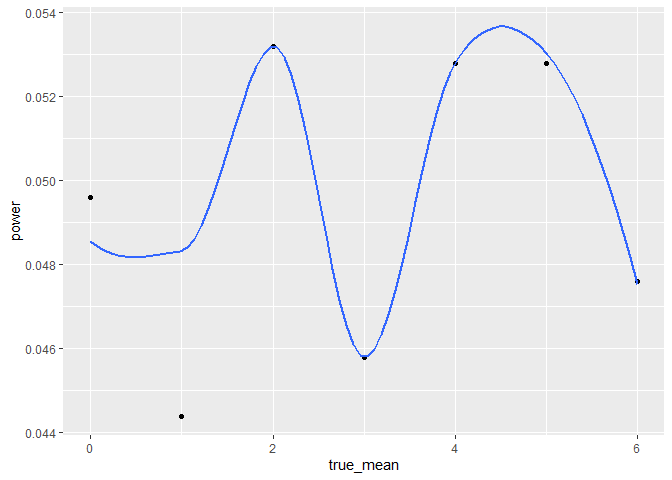
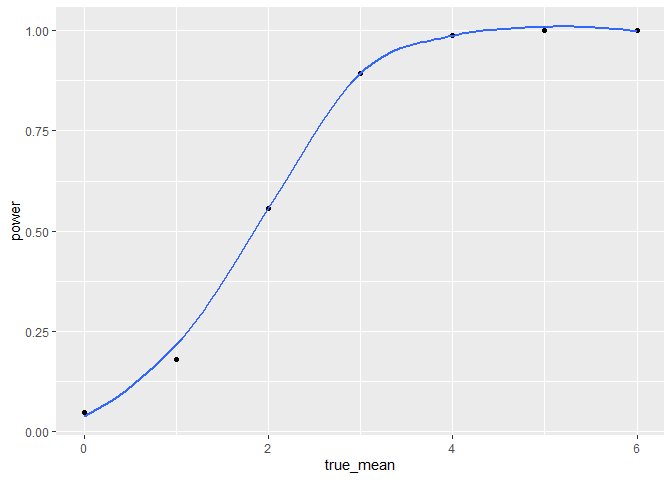
Finishing up the homework

diff --git a/hw5_p8105.md b/hw5_p8105.md
@@ -17,10 +17,10 @@ hw5_p8105
 #a = rnorm(30, mean = 0, sd = 5)
 #include a in the function so it become repeated sampling, the function use t.test directly
 
-ttest = function(n, mean, sd) {
+ttest = function(n = 30, mean, sd = 5) {
   df1 = tibble(
-    x = rnorm(n = 30, mean, sd = 5))
-  ttest_result = t.test(df1)
+    x = rnorm(n = n, mean, sd = sd))
+  ttest_result = t.test(x ~1, df1)
   broom::tidy(ttest_result)
 }
 
@@ -33,8 +33,24 @@ for (i in 1:5000) {
 }
 
 #tidy dataframe result
-result0 = bind_rows(mean_0)
+result0 = bind_rows(mean_0) %>% 
+  print()
 ```
+
+    ## # A tibble: 5,000 × 8
+    ##    estimate statistic p.value parameter conf.low conf.high method    alternative
+    ##       <dbl>     <dbl>   <dbl>     <dbl>    <dbl>     <dbl> <chr>     <chr>      
+    ##  1    0.412     0.489  0.629         29   -1.31     2.14   One Samp… two.sided  
+    ##  2    0.664     0.914  0.368         29   -0.821    2.15   One Samp… two.sided  
+    ##  3    0.551     0.629  0.534         29   -1.24     2.34   One Samp… two.sided  
+    ##  4    0.567     0.704  0.487         29   -1.08     2.21   One Samp… two.sided  
+    ##  5   -1.65     -1.96   0.0599        29   -3.37     0.0731 One Samp… two.sided  
+    ##  6    1.19      1.23   0.229         29   -0.786    3.16   One Samp… two.sided  
+    ##  7    0.334     0.337  0.738         29   -1.69     2.36   One Samp… two.sided  
+    ##  8   -1.19     -1.29   0.209         29   -3.08     0.703  One Samp… two.sided  
+    ##  9    0.122     0.144  0.887         29   -1.62     1.86   One Samp… two.sided  
+    ## 10    0.684     0.728  0.472         29   -1.24     2.60   One Samp… two.sided  
+    ## # ℹ 4,990 more rows
 
 **2B. Loop for mean 1-6**
 
@@ -46,9 +62,26 @@ mean_res =
     true_mean = c(0, 1, 2, 3, 4, 5, 6),
     iter = 1:5000
   ) %>% 
-  mutate(ttest_result = map(true_mean, ~ttest(mean = true_mean))) %>% 
-  unnest(ttest_result)
+  mutate(ttest_result = map(true_mean, ~ttest(mean = .x))) %>% 
+  unnest(ttest_result) %>% 
+  print()
 ```
+
+    ## # A tibble: 35,000 × 10
+    ##    true_mean  iter estimate statistic p.value parameter conf.low conf.high
+    ##        <dbl> <int>    <dbl>     <dbl>   <dbl>     <dbl>    <dbl>     <dbl>
+    ##  1         0     1    0.520     0.607   0.549        29   -1.23      2.27 
+    ##  2         0     2    1.11      1.35    0.188        29   -0.574     2.80 
+    ##  3         0     3    1.01      1.25    0.220        29   -0.635     2.65 
+    ##  4         0     4   -0.835    -1.04    0.309        29   -2.48      0.815
+    ##  5         0     5   -0.892    -0.920   0.365        29   -2.88      1.09 
+    ##  6         0     6    0.557     0.678   0.503        29   -1.12      2.24 
+    ##  7         0     7    1.04      1.21    0.238        29   -0.728     2.82 
+    ##  8         0     8    1.40      1.50    0.144        29   -0.507     3.30 
+    ##  9         0     9    1.15      1.37    0.180        29   -0.559     2.85 
+    ## 10         0    10   -0.500    -0.481   0.634        29   -2.62      1.62 
+    ## # ℹ 34,990 more rows
+    ## # ℹ 2 more variables: method <chr>, alternative <chr>
 
 **2C. Make plot for effect size**
 
@@ -70,17 +103,11 @@ mean_res %>%
 
 ![](hw5_p8105_files/figure-gfm/effect%20size-1.png)<!-- -->
 
-``` r
-#the code works, but the graph is weird bc the statistics is wrong
-```
-
 **Describe the association between effect size and power**
 
-Something is wrong with the statistics code, which I don’t know why
-because I’m not good with statistics. But in general, as the
-hypothesized true population mean increased, so does the difference with
-the sample mean. As effect size increase, power will also increase as we
-can detect difference and thus reject the null.
+As the hypothesized true population mean increased, so does the
+difference with the sample mean. As effect size increase, power will
+also increase as we can detect difference and thus reject the null.
 
 **2D. Make plot for mu hat true mu**
 
@@ -119,10 +146,8 @@ ggplot(plot3, aes(x = true_mean, y = mu_hat_2f)) +
 
 **Is the sample average of mu hat across tests for which the null is
 rejected approximately equal to the true value of mean? why or why
-not?** Again, the plot is weird because something is wrong, but
-theoretically, the average of mu hat from null is rejected should not be
-the same to the true value of the mean because the null rejected,
-meaning mu != mu hat.
+not?** No, as we see the line is not really linear. This is because when
+the null is rejected, it means mu != mu hat so they should be different.
 
 ## Problem 3
 
@@ -151,17 +176,29 @@ homicide_clean = homicide %>%
   group_by(city_state) %>%
   summarize(
     total = n(), 
-    unsolved = sum(disposition != "Closed by arrest"))
+    unsolved = sum(disposition != "Closed by arrest")) %>% 
+  print()
 ```
+
+    ## # A tibble: 51 × 3
+    ##    city_state      total unsolved
+    ##    <chr>           <int>    <int>
+    ##  1 Albuquerque, NM   378      146
+    ##  2 Atlanta, GA       973      373
+    ##  3 Baltimore, MD    2827     1825
+    ##  4 Baton Rouge, LA   424      196
+    ##  5 Birmingham, AL    800      347
+    ##  6 Boston, MA        614      310
+    ##  7 Buffalo, NY       521      319
+    ##  8 Charlotte, NC     687      206
+    ##  9 Chicago, IL      5535     4073
+    ## 10 Cincinnati, OH    694      309
+    ## # ℹ 41 more rows
 
 Total number of homicides and unsolved homicides across all city states
 are 52179 and 26505, respectively.
 
-**3B.** For the city of Baltimore, MD, use the prop.test function to
-estimate the proportion of homicides that are unsolved; save the output
-of prop.test as an R object, apply the broom::tidy to this object and
-pull the estimated proportion and confidence intervals from the
-resulting tidy dataframe.
+**3B. Prop test for Baltimore**
 
 ``` r
 library(broom)
@@ -175,24 +212,17 @@ homicide_clean %>%
   mutate(
     tidy_result = map(prop_test_result, broom::tidy)
   ) %>% 
-  unnest(tidy_result)
+  unnest(tidy_result) %>% 
+  select(city_state, estimate, conf.low, conf.high) %>% 
+  print()
 ```
 
-    ## # A tibble: 1 × 12
-    ##   city_state    total unsolved prop_test_result estimate statistic  p.value
-    ##   <chr>         <int>    <int> <list>              <dbl>     <dbl>    <dbl>
-    ## 1 Baltimore, MD  2827     1825 <htest>             0.646      239. 6.46e-54
-    ## # ℹ 5 more variables: parameter <int>, conf.low <dbl>, conf.high <dbl>,
-    ## #   method <chr>, alternative <chr>
+    ## # A tibble: 1 × 4
+    ##   city_state    estimate conf.low conf.high
+    ##   <chr>            <dbl>    <dbl>     <dbl>
+    ## 1 Baltimore, MD    0.646    0.628     0.663
 
-The estimated proportion for unsolved cases are — with confidence
-interval between —
-
-**3C** Now run prop.test for each of the cities in your dataset, and
-extract both the proportion of unsolved homicides and the confidence
-interval for each. Do this within a “tidy” pipeline, making use of
-purrr::map, purrr::map2, list columns and unnest as necessary to create
-a tidy dataframe with estimated proportions and CIs for each city.
+**3C. Prop test for all**
 
 ``` r
 homicide_plot = homicide_clean %>% 
@@ -202,7 +232,8 @@ homicide_plot = homicide_clean %>%
   mutate(
     tidy_result = map(prop_test_result, broom::tidy)
   ) %>% 
-  unnest(tidy_result)
+  unnest(tidy_result) %>% 
+  print()
 ```
 
     ## Warning: There was 1 warning in `mutate()`.
@@ -211,10 +242,24 @@ homicide_plot = homicide_clean %>%
     ## Caused by warning in `prop.test()`:
     ## ! Chi-squared approximation may be incorrect
 
-Create a plot that shows the estimates and CIs for each city – check out
-geom_errorbar for a way to add error bars based on the upper and lower
-limits. Organize cities according to the proportion of unsolved
-homicides
+    ## # A tibble: 51 × 12
+    ##    city_state      total unsolved prop_test_result estimate statistic   p.value
+    ##    <chr>           <int>    <int> <list>              <dbl>     <dbl>     <dbl>
+    ##  1 Albuquerque, NM   378      146 <htest>             0.386   19.1    1.23e-  5
+    ##  2 Atlanta, GA       973      373 <htest>             0.383   52.5    4.32e- 13
+    ##  3 Baltimore, MD    2827     1825 <htest>             0.646  239.     6.46e- 54
+    ##  4 Baton Rouge, LA   424      196 <htest>             0.462    2.27   1.32e-  1
+    ##  5 Birmingham, AL    800      347 <htest>             0.434   13.8    2.05e-  4
+    ##  6 Boston, MA        614      310 <htest>             0.505    0.0407 8.40e-  1
+    ##  7 Buffalo, NY       521      319 <htest>             0.612   25.8    3.73e-  7
+    ##  8 Charlotte, NC     687      206 <htest>             0.300  109.     1.41e- 25
+    ##  9 Chicago, IL      5535     4073 <htest>             0.736 1231.     1.28e-269
+    ## 10 Cincinnati, OH    694      309 <htest>             0.445    8.11   4.41e-  3
+    ## # ℹ 41 more rows
+    ## # ℹ 5 more variables: parameter <int>, conf.low <dbl>, conf.high <dbl>,
+    ## #   method <chr>, alternative <chr>
+
+**3D. Homicide plotting**
 
 ``` r
 homicide_plot %>% 
@@ -225,7 +270,7 @@ homicide_plot %>%
   geom_point() +
   geom_errorbar(aes(ymin = conf.low, ymax = conf.high)) +
   theme_bw() +
-  theme(axis.text.x = element_text(angle = 45, hjust  =1))
+  theme(axis.text.x = element_text(angle = 90, hjust  =1))
 ```
 
 ![](hw5_p8105_files/figure-gfm/plot%20homicide-1.png)<!-- -->
